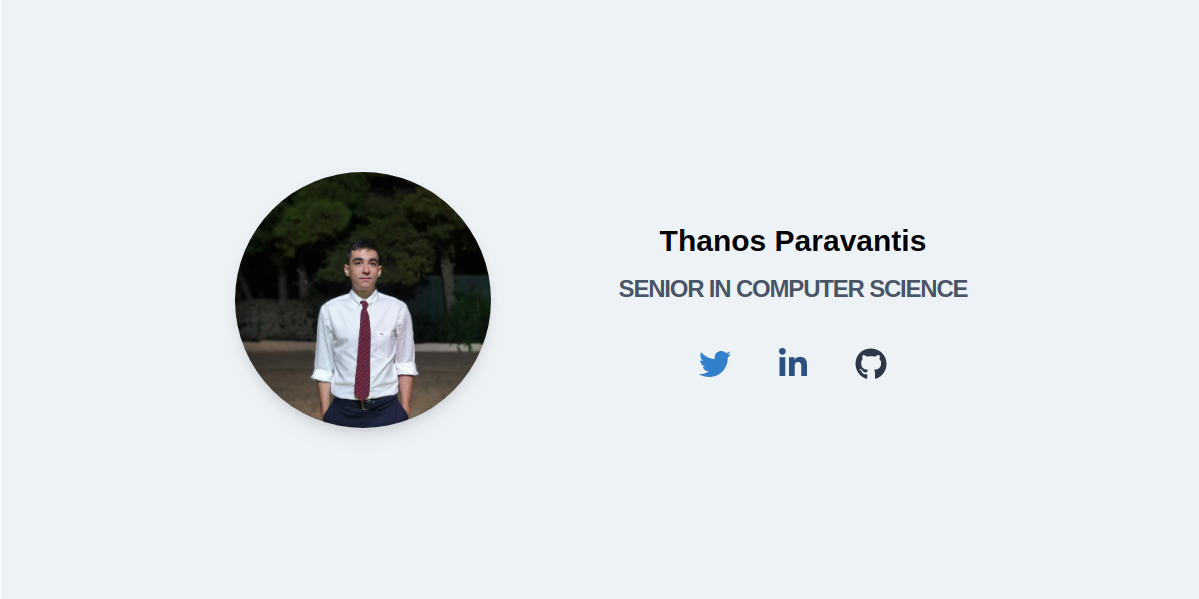
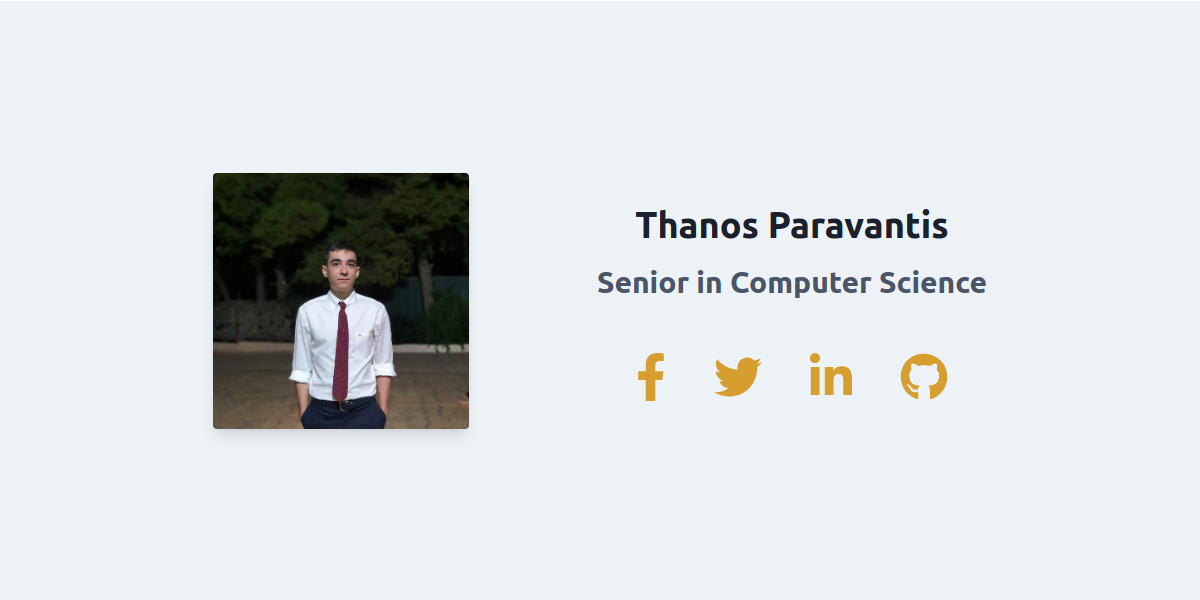
Update social image

diff --git a/src/pages/seo.js b/src/pages/seo.js
@@ -1,18 +1,19 @@
 import React from "react"
 import image from "../images/profile_photo.jpg"
 import { FontAwesomeIcon } from "@fortawesome/react-fontawesome"
-import { faGithub, faLinkedinIn, faTwitter } from "@fortawesome/free-brands-svg-icons"
+import { faFacebookF, faGithub, faLinkedinIn, faTwitter } from "@fortawesome/free-brands-svg-icons"
 
 export default () => (
   <div style={{ width: "1200px", "height": "600px" }} className="flex items-center justify-center text-center bg-gray-200 ml-40 mt-20">
-    <img src={image} className="w-64 rounded-full shadow-lg"/>
+    <img src={image} className="w-64 rounded shadow-lg"/>
     <div className="ml-32">
-      <h1 className="font-bold mb-2 text-3xl">Thanos Paravantis</h1>
-      <h2 className="text-2xl tracking-tighter uppercase font-bold text-gray-700">Senior in Computer Science</h2>
-      <div className="text-2xl mt-10">
-        <FontAwesomeIcon icon={faTwitter} className="mr-12 text-blue-600" size="lg"/>
-        <FontAwesomeIcon icon={faLinkedinIn} className="mr-12 text-blue-800" size="lg"/>
-        <FontAwesomeIcon icon={faGithub} className="text-gray-800" size="lg"/>
+      <h1 className="font-bold mb-2 text-4xl text-gray-900">Thanos Paravantis</h1>
+      <h2 className="text-3xl font-bold text-gray-700">Senior in Computer Science</h2>
+      <div className="text-2xl mt-12">
+        <FontAwesomeIcon icon={faFacebookF} className="mr-12 text-yellow-600" size="2x"/>
+        <FontAwesomeIcon icon={faTwitter} className="mr-12 text-yellow-600" size="2x"/>
+        <FontAwesomeIcon icon={faLinkedinIn} className="mr-12 text-yellow-600" size="2x"/>
+        <FontAwesomeIcon icon={faGithub} className="text-yellow-600" size="2x"/>
       </div>
     </div>
   </div>
